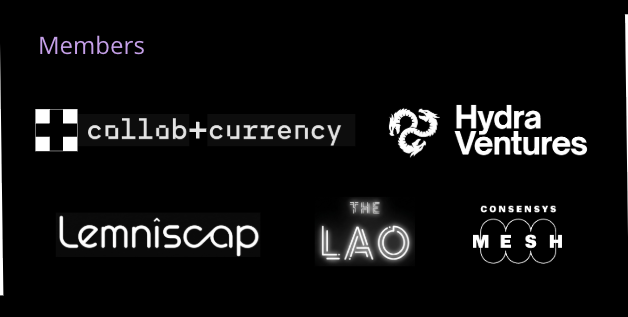
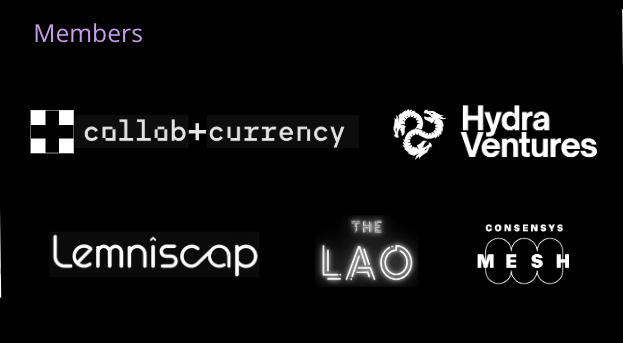
Swap in updated landing popup images with larger, more readable Schools section
User enlarged the Schools portion of the source composite (bigger logos
and clearer labels) and reduced it to 1000x343 (was 925x317); Partners
and Members crops grew proportionally since they share the same canvas
height. Re-cropped at the new divider positions and scaled the render
size up slightly (218px -> 236px tall) to keep the same ~69% scale
factor applied before, so the whole popup grows just enough to carry
the readability fix without re-tuning the rest of the layout.

diff --git a/components/LandingRevealBar.tsx b/components/LandingRevealBar.tsx
@@ -23,13 +23,15 @@ import { cn } from "@/lib/utils";
 // gets clipped equally off both edges instead of only the right (Schools)
 // side disappearing off-screen.
 //
-// Rendered at ~69% of each crop's native pixel size (originals: 284x317 /
-// 628x317 / 925x317) — full native size read as too large/dominant on the
-// page; this scale is what matches the target look.
+// Rendered at ~69% of each crop's native pixel size (originals: 213x343 /
+// 623x343 / 1000x343 — the schools crop was widened/heightened from the
+// previous version to make its logos and labels more readable) — full
+// native size read as too large/dominant on the page; this scale is what
+// matches the target look.
 const GROUPS = [
-  { src: "/landing-reveal-partners.png", width: 195, height: 218, alt: "Partners" },
-  { src: "/landing-reveal-members.png", width: 431, height: 218, alt: "Members" },
-  { src: "/landing-reveal-schools.png", width: 636, height: 218, alt: "Schools" },
+  { src: "/landing-reveal-partners.png", width: 147, height: 236, alt: "Partners" },
+  { src: "/landing-reveal-members.png", width: 429, height: 236, alt: "Members" },
+  { src: "/landing-reveal-schools.png", width: 688, height: 236, alt: "Schools" },
 ];
 
 function Divider() {
